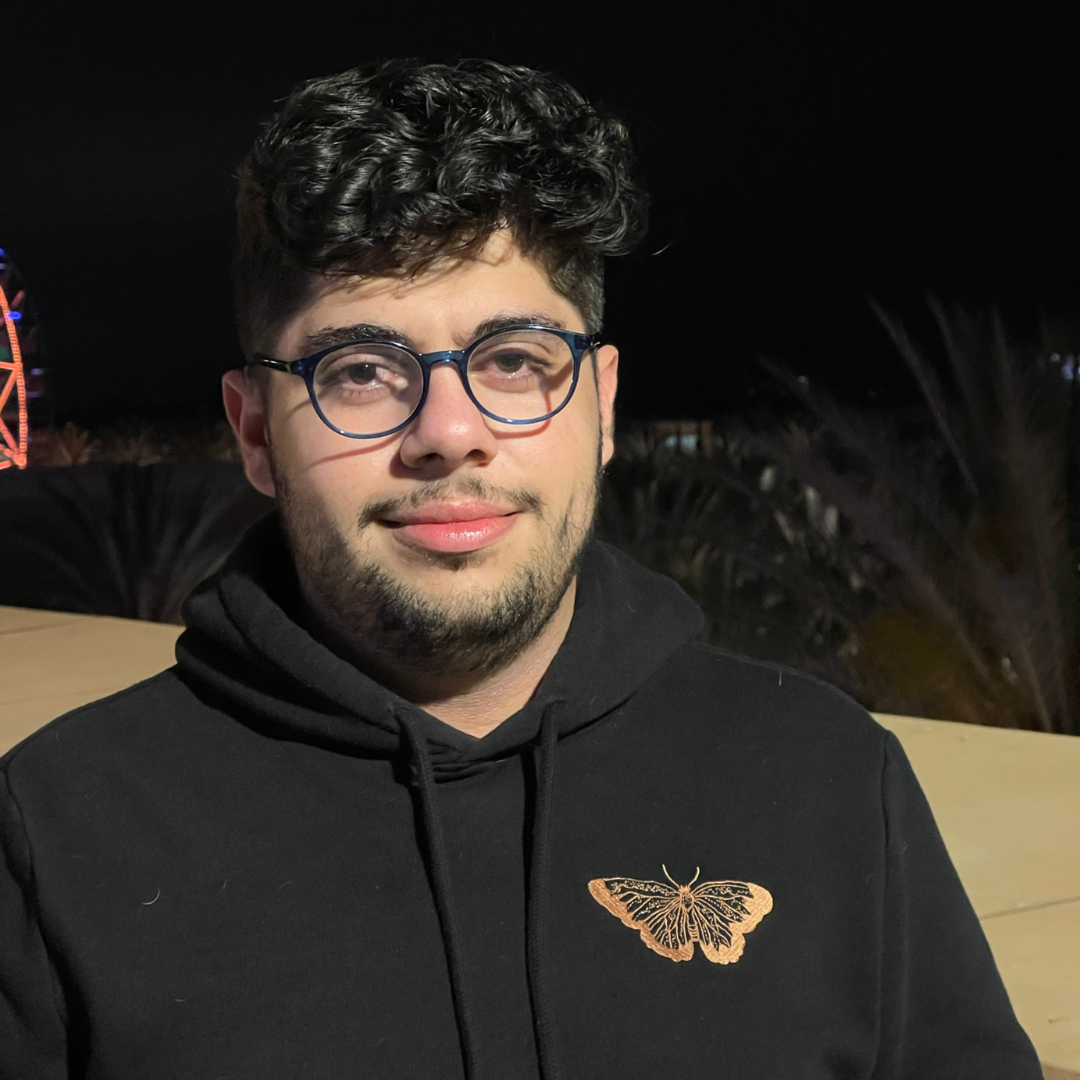
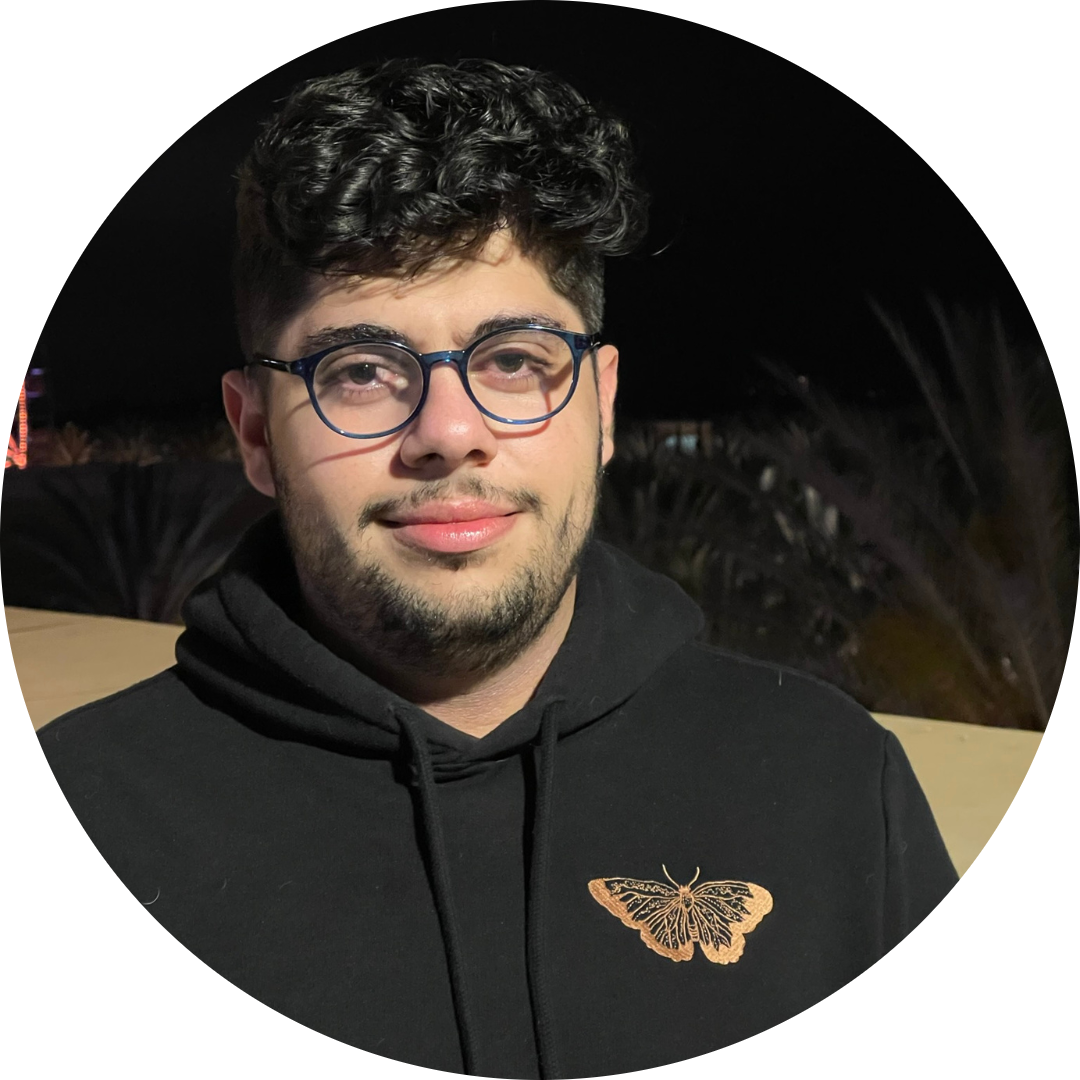
Fix photo

diff --git a/app/layout.tsx b/app/layout.tsx
@@ -13,7 +13,7 @@ export default function RootLayout({
   return (
     <html lang="en">
       <head>
-        <link rel="icon" href="/me_icon.png" type="image/x-icon" />
+        <link rel="icon" href="/Me.png" type="image/x-icon" />
       </head>
       <body className={`${inter.className} bg-[#111] overflow-y-scroll overflow-x-hidden`}>
         <StarsCanvas />

diff --git a/components/Banner.tsx b/components/Banner.tsx
@@ -37,7 +37,6 @@ const Banner: React.FC<{}> = () => {
             height={250}
             width={250}
             alt="Michael Khuri"
-            className="rounded-full"
           />
         </motion.div>
 
